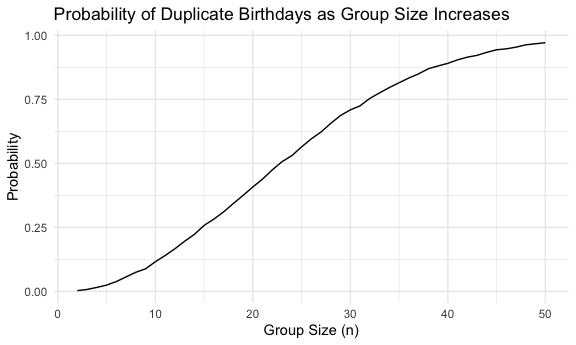
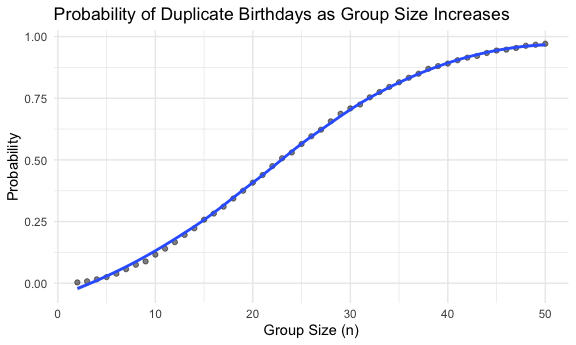
knit

diff --git a/p8105_hw5_mw3743.md b/p8105_hw5_mw3743.md
@@ -1,10 +1,17 @@
 Homework 5 Iteration
 ================
 Minghui Wang
-2024-11-14
+2024-11-15
 
 This assignment reinforces ideas in
 [Iteration](https://p8105.com/topic_iteration.html).
+
+Load key packages
+
+``` r
+library(tidyverse)
+set.seed(123)
+```
 
 # Problem 1
 
@@ -45,7 +52,8 @@ comment on the results.
 ``` r
 sim_res |> 
   ggplot(aes(x = n, y = prob )) + 
-  geom_line()+
+  geom_point(alpha=0.5) +
+  geom_smooth()+
   labs(
     x= "Group Size (n)",
     y= "Probability",
@@ -53,7 +61,9 @@ sim_res |>
   )
 ```
 
-<img src="p8105_hw5_mw3743_files/figure-gfm/unnamed-chunk-3-1.png" width="90%" />
+    ## `geom_smooth()` using method = 'loess' and formula = 'y ~ x'
+
+<img src="p8105_hw5_mw3743_files/figure-gfm/unnamed-chunk-4-1.png" width="90%" />
 
 **Comment** : The plot shows an increasing trend in the probability that
 at least two people share a birthday as the group size grows. The
@@ -61,7 +71,319 @@ probability starts near zero for small groups but rises quickly,
 reaching around 50% by a group size of 23, and approaching nearly 100%
 by a group size of 50. The increasing rate is biggest around a group
 size of 23 and smallest around 0 and 50. This plot demonstrates how the
-likelihood of shared birthdays increases as more people are added. \#
-Problem 2
+likelihood of shared birthdays increases as more people are added.
+
+# Problem 2
+
+Define the function to save 𝜇̂ and the p-value arising from a test of
+𝐻:𝜇=0 using 𝛼=0.05.
+
+``` r
+# Set parameters
+
+alpha <- 0.05
+
+# Define t_test function  
+t_test = function(mu) {
+  
+  sample_data = rnorm(30, mean = mu, sd = 5)
+  
+  t_stat = t.test(sample_data, mu = 0) |>
+    broom::tidy() |>
+    select(estimate, p.value)
+  
+  return(t_stat)
+}
+```
+
+``` r
+# Generate 5000 dataset for mu = 0
+sim_result_mu0 = 
+  tibble(
+    mu = 0,
+    iter = 1:5000
+  ) |>
+  mutate(
+    estimate_df = map(mu, t_test)
+  ) |> 
+  unnest(estimate_df)
+```
+
+``` r
+# Simulation for each mu(1-6) value and store results
+sim_result_mu1_6 =
+  expand_grid(
+    mu = 1:6,
+    iter = 1:5000 )|>
+  mutate(
+    estimate_df = map(mu, t_test)
+  )|> 
+  unnest(estimate_df)
+
+# Combine the two datasets
+sim_result_df = bind_rows(sim_result_mu0, sim_result_mu1_6)
+```
+
+Make a plot showing the proportion of times the null was rejected (the
+power of the test) on the y axis and the true value of 𝜇 on the x axis.
+Describe the association between effect size and power.
+
+``` r
+sim_result_df |>
+  group_by(mu) |>
+  summarize(
+    power = mean(p.value < alpha), .groups = 'drop')|>
+  ggplot( aes(x = mu, y = power)) +
+    geom_line() +
+    geom_point() +
+    labs(
+      title = "Power of the t-Test ",
+      x = "True Value of μ",
+      y = "Power (proportion of times the null was rejected)"
+    ) +
+    theme_minimal()
+```
+
+<img src="p8105_hw5_mw3743_files/figure-gfm/unnamed-chunk-8-1.png" width="90%" />
+
+**Comment** : The plot demonstrates that power increases with effect
+size; as the true mean (𝜇) becomes larger, the probability of rejecting
+the null hypothesis rises.When μ is small (close to 0), the power is
+low, indicating a low probability of detecting a true effect.As μ
+increases, the power steadily rises, and by the time μ reaches around 4,
+the power approaches 1, meaning the test is highly likely to reject the
+null hypothesis when it is false. This highlights the positive
+relationship between effect size and the test’s ability to detect a true
+effect.<br>
+
+Make a plot showing the average estimate of 𝜇̂ on the y axis and the true
+value of 𝜇 on the x axis.
+
+``` r
+sim_result_df |>
+  group_by(mu) |>
+  summarize(
+    avg_mu = mean(estimate), .groups = 'drop')|>
+  ggplot( aes(x = mu, y = avg_mu) )+
+  geom_line() +
+  geom_point() +
+  labs(
+      title = "Average Estimate of Sample Mean (μ̂) vs True Value of Population Mean (μ)",
+      x = "True Value of μ",
+      y = "Average Estimate of μ̂"
+    ) +
+    theme_minimal()
+```
+
+<img src="p8105_hw5_mw3743_files/figure-gfm/unnamed-chunk-9-1.png" width="90%" />
+
+Make a second plot (or overlay on the first) the average estimate of 𝜇̂
+only in samples for which the null was rejected on the y axis and the
+true value of 𝜇on the x axis. Is the sample average of 𝜇̂ across tests
+for which the null is rejected approximately equal to the true value of
+𝜇? Why or why not?
+
+``` r
+sim_result_df |>
+  group_by(mu) |>
+  summarize(
+    avg_mu_hat = mean(estimate),  
+    avg_mu_hat_rejected = mean(estimate[p.value < 0.05]),  
+    .groups = 'drop'
+  ) |>
+  ggplot(aes(x = mu)) +
+  geom_line(aes(y = avg_mu_hat, color = "All Samples"), linetype = "solid") +
+  geom_point(aes(y = avg_mu_hat, color = "All Samples")) +
+  geom_line(aes(y = avg_mu_hat_rejected, color = "Null Rejected Samples"), linetype = "solid") +
+  geom_point(aes(y = avg_mu_hat_rejected, color = "Null Rejected Samples")) +
+  labs(
+    title = "Average Estimate of Sample Mean (μ̂) vs True Value of Population Mean (μ)",
+    x = "True Value of μ", y = "Average Estimate of μ̂", color = "Sample Type" ) +
+  theme_minimal()
+```
+
+<img src="p8105_hw5_mw3743_files/figure-gfm/unnamed-chunk-10-1.png" width="90%" />
+
+**Is the sample average of 𝜇̂ across tests for which the null is rejected
+approximately equal to the true value of μ?**: The sample average of 𝜇̂
+across tests for which the null hypothesis is rejected is not
+approximately equal to the true value of μ, especially for smaller
+values of μ.<br> **Why or why not?**: When we only consider samples
+where the null hypothesis was rejected, we introduce selection bias.
+This occurs because we are selectively choosing samples that show
+stronger evidence against the null hypothesis, which typically results
+in larger observed estimates. When the true effect size is small, only
+the samples with higher-than-average estimates of 𝜇̂ will have a
+significant p-value, and thus only those are included in the “null
+rejected” category.However, when the true effect size is big, this bias
+is reduced, resulting in the estimated value close to the true value.
 
 # Problem 3
+
+Load the raw dataset
+
+``` r
+homicide_raw = read_csv("https://raw.githubusercontent.com/washingtonpost/data-homicides/refs/heads/master/homicide-data.csv")
+```
+
+    ## Rows: 52179 Columns: 12
+    ## ── Column specification ────────────────────────────────────────────────────────
+    ## Delimiter: ","
+    ## chr (9): uid, victim_last, victim_first, victim_race, victim_age, victim_sex...
+    ## dbl (3): reported_date, lat, lon
+    ## 
+    ## ℹ Use `spec()` to retrieve the full column specification for this data.
+    ## ℹ Specify the column types or set `show_col_types = FALSE` to quiet this message.
+
+**Describe the raw data**<br> This dataset has 52,179 records about
+incidents involving victims, with 12 columns describing each case. Each
+record has a unique ID, the date it was reported (reported_date), and
+victim information such as last name (victim_last), first name
+(victim_first), race (victim_race), age (victim_age), and sex
+(victim_sex), ect. The location of the incident is listed by city,
+state, and geographic coordinates (latitude and longitude). The last
+column, disposition, shows the outcome of the case, like “Closed without
+arrest” or “Closed by arrest.” <br>
+
+Create a city_state variable (e.g. “Baltimore, MD”) and then summarize
+within cities to obtain the total number of homicides and the number of
+unsolved homicides (those for which the disposition is “Closed without
+arrest” or “Open/No arrest”).
+
+``` r
+homicide_unsolved = homicide_raw |>
+  mutate(
+    city_state = str_c(city, ",", state)) |>
+  group_by(city_state)|>
+  summarize(
+    total_homicides = n(),
+    total_unsolved = sum(disposition == "Closed without arrest" | disposition == "Open/No arrest")
+  )
+```
+
+For the city of Baltimore, MD, use the `prop.test` function to estimate
+the proportion of homicides that are unsolved; save the output of
+`prop.test` as an R object, apply the broom::tidy to this object and
+pull the estimated proportion and confidence intervals from the
+resulting tidy dataframe.
+
+``` r
+baltimore = homicide_unsolved|>
+  filter(city_state == "Baltimore,MD")
+
+
+baltimore_prop_test =  prop.test(
+  x = baltimore$total_unsolved,
+  n = baltimore$total_homicides
+)
+
+broom::tidy(baltimore_prop_test) |>
+  select(estimate, conf.low, conf.high)|>  
+  knitr::kable()
+```
+
+|  estimate |  conf.low | conf.high |
+|----------:|----------:|----------:|
+| 0.6455607 | 0.6275625 | 0.6631599 |
+
+Now run prop.test for each of the cities in your dataset, and extract
+both the proportion of unsolved homicides and the confidence interval
+for each. Do this within a “tidy” pipeline, making use of purrr::map,
+purrr::map2, list columns and unnest as necessary to create a tidy
+dataframe with estimated proportions and CIs for each city.
+
+``` r
+cities_prop_test = homicide_unsolved|>
+  mutate(
+    prop_test_result = map2(
+      total_unsolved,
+      total_homicides,
+      ~ prop.test (x=.x,n=.y)),
+    tidy_result = map (prop_test_result, broom::tidy)
+  )|>
+  select(city_state, tidy_result) |>
+  unnest()|>
+  select(city_state, estimate, conf.low, conf.high)
+
+cities_prop_test |>
+  knitr::kable()
+```
+
+| city_state        |  estimate |  conf.low | conf.high |
+|:------------------|----------:|----------:|----------:|
+| Albuquerque,NM    | 0.3862434 | 0.3372604 | 0.4375766 |
+| Atlanta,GA        | 0.3833505 | 0.3528119 | 0.4148219 |
+| Baltimore,MD      | 0.6455607 | 0.6275625 | 0.6631599 |
+| Baton Rouge,LA    | 0.4622642 | 0.4141987 | 0.5110240 |
+| Birmingham,AL     | 0.4337500 | 0.3991889 | 0.4689557 |
+| Boston,MA         | 0.5048860 | 0.4646219 | 0.5450881 |
+| Buffalo,NY        | 0.6122841 | 0.5687990 | 0.6540879 |
+| Charlotte,NC      | 0.2998544 | 0.2660820 | 0.3358999 |
+| Chicago,IL        | 0.7358627 | 0.7239959 | 0.7473998 |
+| Cincinnati,OH     | 0.4452450 | 0.4079606 | 0.4831439 |
+| Columbus,OH       | 0.5304428 | 0.5002167 | 0.5604506 |
+| Dallas,TX         | 0.4811742 | 0.4561942 | 0.5062475 |
+| Denver,CO         | 0.5416667 | 0.4846098 | 0.5976807 |
+| Detroit,MI        | 0.5883287 | 0.5687903 | 0.6075953 |
+| Durham,NC         | 0.3659420 | 0.3095874 | 0.4260936 |
+| Fort Worth,TX     | 0.4644809 | 0.4222542 | 0.5072119 |
+| Fresno,CA         | 0.3470226 | 0.3051013 | 0.3913963 |
+| Houston,TX        | 0.5074779 | 0.4892447 | 0.5256914 |
+| Indianapolis,IN   | 0.4493192 | 0.4223156 | 0.4766207 |
+| Jacksonville,FL   | 0.5111301 | 0.4820460 | 0.5401402 |
+| Kansas City,MO    | 0.4084034 | 0.3803996 | 0.4370054 |
+| Las Vegas,NV      | 0.4141926 | 0.3881284 | 0.4407395 |
+| Long Beach,CA     | 0.4126984 | 0.3629026 | 0.4642973 |
+| Los Angeles,CA    | 0.4900310 | 0.4692208 | 0.5108754 |
+| Louisville,KY     | 0.4531250 | 0.4120609 | 0.4948235 |
+| Memphis,TN        | 0.3190225 | 0.2957047 | 0.3432691 |
+| Miami,FL          | 0.6048387 | 0.5685783 | 0.6400015 |
+| Milwaukee,wI      | 0.3614350 | 0.3333172 | 0.3905194 |
+| Minneapolis,MN    | 0.5109290 | 0.4585150 | 0.5631099 |
+| Nashville,TN      | 0.3624511 | 0.3285592 | 0.3977401 |
+| New Orleans,LA    | 0.6485356 | 0.6231048 | 0.6731615 |
+| New York,NY       | 0.3875598 | 0.3494421 | 0.4270755 |
+| Oakland,CA        | 0.5364308 | 0.5040588 | 0.5685037 |
+| Oklahoma City,OK  | 0.4851190 | 0.4467861 | 0.5236245 |
+| Omaha,NE          | 0.4132029 | 0.3653146 | 0.4627477 |
+| Philadelphia,PA   | 0.4478103 | 0.4300380 | 0.4657157 |
+| Phoenix,AZ        | 0.5514223 | 0.5184825 | 0.5839244 |
+| Pittsburgh,PA     | 0.5340729 | 0.4942706 | 0.5734545 |
+| Richmond,VA       | 0.2634033 | 0.2228571 | 0.3082658 |
+| Sacramento,CA     | 0.3696809 | 0.3211559 | 0.4209131 |
+| San Antonio,TX    | 0.4285714 | 0.3947772 | 0.4630331 |
+| San Bernardino,CA | 0.6181818 | 0.5576628 | 0.6753422 |
+| San Diego,CA      | 0.3796095 | 0.3354259 | 0.4258315 |
+| San Francisco,CA  | 0.5067873 | 0.4680516 | 0.5454433 |
+| Savannah,GA       | 0.4674797 | 0.4041252 | 0.5318665 |
+| St. Louis,MO      | 0.5396541 | 0.5154369 | 0.5636879 |
+| Stockton,CA       | 0.5990991 | 0.5517145 | 0.6447418 |
+| Tampa,FL          | 0.4567308 | 0.3881009 | 0.5269851 |
+| Tulsa,AL          | 0.0000000 | 0.0000000 | 0.9453792 |
+| Tulsa,OK          | 0.3310463 | 0.2932349 | 0.3711192 |
+| Washington,DC     | 0.4379182 | 0.4112495 | 0.4649455 |
+
+Create a plot that shows the estimates and CIs for each city – check out
+geom_errorbar for a way to add error bars based on the upper and lower
+limits. Organize cities according to the proportion of unsolved
+homicides.
+
+``` r
+cities_prop_test |>
+  mutate(
+    city_state = reorder(city_state, estimate)
+  )|>
+  ggplot(aes(x = city_state, y = estimate)) +
+  geom_point() +
+  geom_errorbar(aes(ymin = conf.low, ymax = conf.high), width = 0.2) +
+  coord_flip()+
+  labs(
+    title = "Proportion of Unsolved Homicides by City, State",
+    x = "City, State",
+    y = "Proportion of Unsolved Homicides",
+    caption = "Error bars represent 95% CI"
+  ) +
+  theme_minimal(base_size = 6) 
+```
+
+<img src="p8105_hw5_mw3743_files/figure-gfm/unnamed-chunk-15-1.png" width="90%" />
